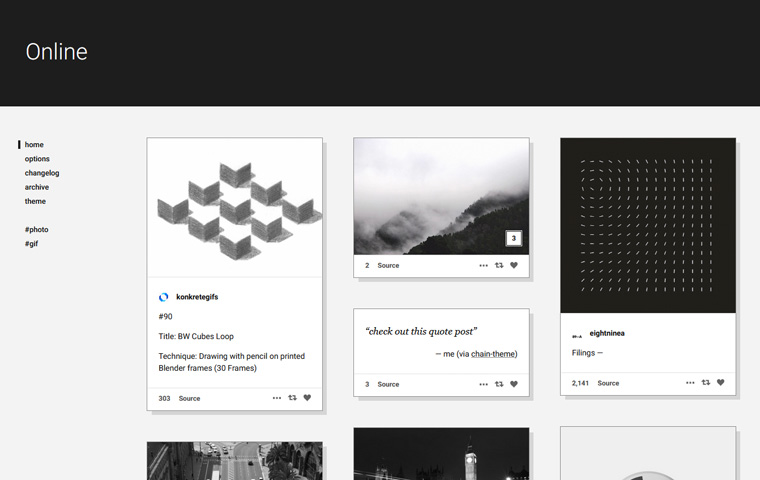
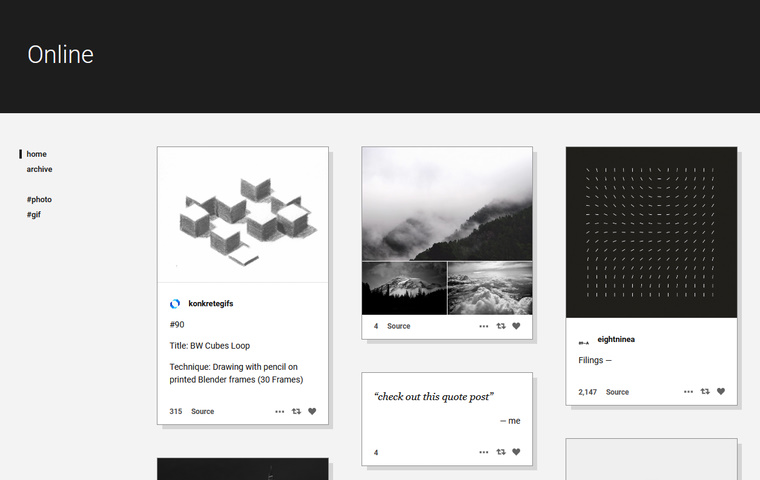
online 2.0

diff --git a/preview_online.html b/preview_online.html
@@ -4,23 +4,6 @@ permalink: /preview/online
 <!DOCTYPE html>
 <html>
     <head>
-        <!-- 
-        
-        theme:      Online
-        version:    1.1.2 (April 27, 2019)
-        from:       adorablethemes.github.io
-        
-        
-        credits:
-        
-        IcoMoon Free Pack (icomoon.io)
-        imagesLoaded 4.1.4 (imagesloaded.desandro.com)
-        Infinite Scroll 3.0.3 (infinite-scroll.com)
-        jQuery 3.3.1 (jquery.com)
-        Masonry 4.2.2 (masonry.desandro.com)
-        Featherlight (preview only) (noelboss.github.io/featherlight)
-        
-        -->
         <meta charset="UTF-8">
         
         <title>Online theme (preview)</title>
@@ -29,19 +12,8 @@ permalink: /preview/online
         <meta name="theme-color" content="#1d1d1d">
         
         <link href="https://fonts.googleapis.com/css?family=Roboto:300,400,500,700,400italic" rel="stylesheet" type="text/css">
-        <link href="https://cdn.jsdelivr.net/npm/featherlight@1.7.14/release/featherlight.min.css" type="text/css" rel="stylesheet" />
-        <link href="https://cdn.jsdelivr.net/npm/featherlight@1.7.14/release/featherlight.gallery.min.css" type="text/css" rel="stylesheet" />
         <meta name="robots" content="noindex"/>
         <style type="text/css">
-        
-        .featherlight .featherlight-content {
-            padding: 0;
-            border-bottom: 0;
-            box-shadow: 0 4px 30px #000;
-        }
-        .featherlight-next:hover, .featherlight-previous:hover {
-            background: none;
-        }
         
         /* =Base styles=
 -------------------------------------------------------------- */
@@ -262,7 +234,6 @@ permalink: /preview/online
         }
         
 		.post-section {
-		    border-bottom: 1px dotted #8c8c8c;
 			padding: 10px 20px;
 			font-size: 14px;
 			line-height: 150%;
@@ -285,8 +256,8 @@ permalink: /preview/online
 			text-decoration-color: rgba(17,17,17, 0.8);
         }
         .post h1, .post h2, .post h3, .post h4, .post h5, .post h6 {
-			font-size: 14px;
-			font-weight: 500;
+			font-size: 16px;
+			font-weight: 700;
 			margin: 0.83em 0;
         }
         .post p {
@@ -463,6 +434,30 @@ permalink: /preview/online
         
         .photo-post-photo, .audio-content, .video-content {
             border-bottom: 1px dotted #8c8c8c;
+        }
+        
+        .photoset-content img {
+            display: none;
+        }
+        .photoset-content.single-image img {
+            display: block;
+            width: 100%;
+            height: auto;
+        }
+        .photoset-row {
+            display: flex;
+            align-items: center;
+            border-bottom: 1px solid transparent;
+        }
+        .photoset-photo {
+            flex: 1 0 0px;
+            background-size: cover;
+            background-position: center center;
+            margin-right: 1px;
+            cursor: zoom-in;
+        }
+        .photoset-photo:last-child {
+            margin-right: 0;
         }
         
         
@@ -990,60 +985,12 @@ Technique: Drawing with pencil on printed Blender frames (30 Frames)
 				
 				<div class="post-inner">
 								
-                
-                
-                
-                
-                
 
-                
-                
-
-                
-					
-					<div class="photoset-container has-lightbox" data-postid="176792311379" data-featherlight-open-speed="0" data-featherlight-close-speed="0" data-featherlight-gallery data-featherlight-filter="a">
-					
-					<figure data-width="1280" data-height="856" data-lowres="https://66.media.tumblr.com/c0959be286afc5e8df5bc5eaf2256a17/tumblr_pd6c5dgulE1u60a8co1_500.jpg" data-highres="https://66.media.tumblr.com/c0959be286afc5e8df5bc5eaf2256a17/tumblr_pd6c5dgulE1u60a8co1_1280.jpg" data-caption="" class="photo-content photoset-content has-lightbox"></figure>
-					<figure data-width="1280" data-height="798" data-lowres="https://66.media.tumblr.com/9ff907c47378ee3a33f317e37c19ee0d/tumblr_pd6c5dgulE1u60a8co2_500.jpg" data-highres="https://66.media.tumblr.com/9ff907c47378ee3a33f317e37c19ee0d/tumblr_pd6c5dgulE1u60a8co2_1280.jpg" data-caption="" class="photo-content photoset-content has-lightbox"></figure>
-					<figure data-width="1280" data-height="853" data-lowres="https://66.media.tumblr.com/cc29a01872a7da59a81925e18af4bd0c/tumblr_pd6c5dgulE1u60a8co3_500.jpg" data-highres="https://66.media.tumblr.com/cc29a01872a7da59a81925e18af4bd0c/tumblr_pd6c5dgulE1u60a8co3_1280.jpg" data-caption="" class="photo-content photoset-content has-lightbox"></figure>
-					
-					
-					<a href="https://66.media.tumblr.com/c0959be286afc5e8df5bc5eaf2256a17/tumblr_pd6c5dgulE1u60a8co1_1280.jpg"><img class="photo-post-photo" src="https://66.media.tumblr.com/c0959be286afc5e8df5bc5eaf2256a17/tumblr_pd6c5dgulE1u60a8co1_500.jpg" alt="" /></a>
-					
-					
-					<a style="display: none" href="https://66.media.tumblr.com/9ff907c47378ee3a33f317e37c19ee0d/tumblr_pd6c5dgulE1u60a8co2_1280.jpg"><img class="photo-post-photo" src="https://66.media.tumblr.com/9ff907c47378ee3a33f317e37c19ee0d/tumblr_pd6c5dgulE1u60a8co2_500.jpg" alt="" /></a>
-					
-					
-					<a style="display: none" href="https://66.media.tumblr.com/cc29a01872a7da59a81925e18af4bd0c/tumblr_pd6c5dgulE1u60a8co3_1280.jpg"><img class="photo-post-photo" src="https://66.media.tumblr.com/cc29a01872a7da59a81925e18af4bd0c/tumblr_pd6c5dgulE1u60a8co3_500.jpg" alt="" /></a>
-					
-					
-					
-					<div class="photoset-note">3</div>
-					</div>
-					
-
-					
-					
-					
-                        
-                    
-                    
-                
-                
-
-                
-                
-
-                
-                
-
-                
-                
-
-                
-                
-
-                
+                <figure id="photoset_3498148791" class="photoset-content" data-layout="12">
+                    <img src="https://66.media.tumblr.com/c0959be286afc5e8df5bc5eaf2256a17/tumblr_pd6c5dgulE1u60a8co1_500.jpg" data-width="1280" data-height="856" data-imagehd="https://66.media.tumblr.com/c0959be286afc5e8df5bc5eaf2256a17/tumblr_pd6c5dgulE1u60a8co1_1280.jpg" data-caption="" />
+                    <img src="https://66.media.tumblr.com/9ff907c47378ee3a33f317e37c19ee0d/tumblr_pd6c5dgulE1u60a8co2_500.jpg" data-width="1280" data-height="798" data-imagehd="https://66.media.tumblr.com/9ff907c47378ee3a33f317e37c19ee0d/tumblr_pd6c5dgulE1u60a8co2_1280.jpg" data-caption="" />
+                    <img src="https://66.media.tumblr.com/cc29a01872a7da59a81925e18af4bd0c/tumblr_pd6c5dgulE1u60a8co3_500.jpg" data-width="1280" data-height="853" data-imagehd="https://66.media.tumblr.com/cc29a01872a7da59a81925e18af4bd0c/tumblr_pd6c5dgulE1u60a8co3_1280.jpg" data-caption="" />
+                </figure>
                 
                 
                 <div class="post-section post-tags">
@@ -1724,10 +1671,8 @@ A new geometric design every day
       </main>
     </div>
     
-    <script src="https://code.jquery.com/jquery-3.3.1.min.js"></script>
+    <script src="https://code.jquery.com/jquery-3.6.4.min.js"></script>
     <script src="https://static.tumblr.com/anzluor/iaEpqmv4c/masonry.js"></script>
-    <script src="https://cdn.jsdelivr.net/npm/featherlight@1.7.14/release/featherlight.min.js"></script>
-    <script src="https://cdn.jsdelivr.net/npm/featherlight@1.7.14/release/featherlight.gallery.min.js"></script>
     <script>
     $(function() {
     // mobile menu button
@@ -1739,19 +1684,11 @@ A new geometric design every day
             $(this).scrollTop() > 200 ? $("#sidebar").addClass('fixed') : $("#sidebar").removeClass('fixed');
         });
     }
+    makePhotosets();
     if (!online.indexPage) {
         if (window.innerWidth < 768) {
-            resizePhotosets();
             fitVideos();
         }
-        $('.has-lightbox').each(function(){
-            if (!$(this).hasClass('chmade')) {
-                $(this).on('click',function(){
-                    makeLightbox($(this).data('postid'));
-                });
-                $(this).addClass('chmade');
-            }
-        });
         trimDates();
     }
     if (online.indexPage) {
@@ -1827,14 +1764,6 @@ A new geometric design every day
 			}); }, 500);
         });
     }
-    $('.has-lightbox').each(function(){
-        if (!$(this).hasClass('chmade')) {
-            $(this).on('click',function(){
-                makeLightbox($(this).data('postid'));
-            });
-            $(this).addClass('chmade');
-        }
-    });
     $('.note-count').each(function(){
         $(this).html(parseInt($(this).data('notes')).toLocaleString());
     });
@@ -1849,18 +1778,58 @@ function makeLightbox(postID) {
     });
     //Tumblr.Lightbox.init(lbArray,1);
 }
-function resizePhotosets() {
-    try {
-        var parentWidth = document.body.querySelector('.html_photoset').offsetWidth; 
-        var photosets = document.body.querySelectorAll('iframe.photoset');
-        for(var i = 0; i < photosets.length; ++i){
-            var photoset = photosets[i];
-            photoset.width = parentWidth;
+function makePhotosets() {
+    $(".photoset-content").each( function() {
+        if (!$(this).hasClass('psmade')) {
+            var str = '<div class="photoset-row">';
+            var rowLength = $(this).data("layout").toString();
+            var currentRowPos = 0;
+            var rowsDone = 0;
+            var minAR = [];
+            var count = 1;
+            var postID = $(this).attr("id").toString();
+            
+            // don't make flexbox if there's only one image
+            if (rowLength != "1") {
+                
+                // Find lowest height image for each row
+                $("#"+$(this).attr("id")+" img").each( function() {
+                    if (minAR[rowsDone] == undefined) { minAR[rowsDone] = 0; }
+                    var ar = $(this).data("width") / $(this).data("height");
+                    if (ar > minAR[rowsDone]) { minAR[rowsDone] = ar; }
+                    currentRowPos++;
+                    if (currentRowPos == parseInt(rowLength[rowsDone])) {
+                        rowsDone++;
+                        currentRowPos = 0;
+                    }
+                });
+                rowsDone = 0;
+                
+                // Create the rows
+                $("#"+$(this).attr("id")+" img").each( function() {
+                    var pb = (100 / parseInt(rowLength[rowsDone])) / minAR[rowsDone];
+                    var isrc = $(this).attr("src");
+                    if ((window.devicePixelRatio > 1.4) || (!online.indexPage)) {
+                        isrc = $(this).data("imagehd");
+                    }
+                    str += '<div data-width="'+$(this).data("width")+'" data-height="'+$(this).data("height")+'" data-image="'+$(this).attr("src")+'" data-imagehd="'+$(this).data("imagehd")+'" data-caption="'+$(this).data("caption")+'" data-number="'+count.toString()+'" class="photoset-photo" style="background-image: url(' + isrc + '); padding-bottom: ' + pb.toString() + '%"></div>';
+                    currentRowPos++;
+                    count++;
+                    if (currentRowPos == parseInt(rowLength[rowsDone])) {
+                        str += "</div>";
+                        rowsDone++;
+                        currentRowPos = 0;
+                        if (rowsDone < rowLength.length) {
+                            str += '<div class="photoset-row">';
+                        }
+                    }
+                });
+                $(this).html(str);
+                
+            }
         }
-    }
-    catch(e) {
-        console.log('no photosets');
-    }
+        $(this).addClass('psmade');
+    });
 }
 function fitVideos() {
     $(".video-content iframe").each(function(index) {

diff --git a/theme_online.html b/theme_online.html
@@ -3,8 +3,8 @@ title: Online - Adorable Themes
 description: A responsive masonry grid style Tumblr theme with a sidebar.
 theme_image: full_online.jpg
 theme_name: Online
-theme_version: 1.1.2
-theme_date: April 27, 2019
+theme_version: 2.0
+theme_date: April 26, 2023
 shortname: online
 info_1: Responsive multi-column layout
 info_2: Dashboard-style reblog comments
@@ -16,6 +16,12 @@ permalink: /theme/online
 
 <article class="post-section">
     <h2>Update history</h2>
+    <p><strong>2.0</strong> (April 26, 2023)</p>
+    <ul>
+        <li>Updated for the new post editor</li>
+        <li>Legacy photosets now display all photos at once</li>
+    </ul>
+    
     <p><strong>1.1.2</strong> (April 27, 2019)</p>
     <ul><li>Fix infinite loading bug when a post has a broken image</li></ul>
     
@@ -33,4 +39,10 @@ permalink: /theme/online
     
     <p><strong>1.0</strong> (August 8, 2018)</p>
     <ul><li>First release</li></ul>
+</article>
+<article class="post-section">
+    <h2>Known issues</h2>
+    <ul>
+        <li>In rare cases you might see older posts with the wrong amount of padding on text</li>
+    </ul>
 </article>

diff --git a/theme_win2k.html b/theme_win2k.html
@@ -19,7 +19,7 @@ permalink: /theme/win2k
     <h2>Update history</h2>
     <p><strong>3.0</strong> (January 5, 2023)</p>
     <ul>
-        <li>Reworked for the NPF era</li>
+        <li>Reworked for the new post editor</li>
         <li>Related posts section now shows thumbnails for NPF posts</li>
         <li>Added lightbox for legacy photo posts</li>
         <li>NPF photosets are now clickable when loaded in via infinite scrolling</li>

diff --git a/theme_win31.html b/theme_win31.html
@@ -19,7 +19,7 @@ permalink: /theme/win31
     <h2>Update history</h2>
     <p><strong>2.0</strong> (January 6, 2023)</p>
     <ul>
-        <li>Reworked for the NPF era</li>
+        <li>Reworked for the new post editor</li>
         <li>Related posts section now shows thumbnails for NPF posts</li>
         <li>Added lightbox for legacy photo posts</li>
         <li>NPF photosets are now clickable when loaded in via infinite scrolling</li>

diff --git a/index.html b/index.html
@@ -8,6 +8,7 @@ layout: default
     <h2>Featured themes</h2>
 </div>
 
+{% include block.html name="Online" desc="Responsive multi-column with customizable header and sticky sidebar" %}
 {% include block.html name="Nano" desc="Minimal and responsive" %}
 {% include block.html name="Solar" desc="Single column with many sidebar widgets" %}
 {% include block.html name="Mini Grid" desc="Square grid with sidebar" %}
